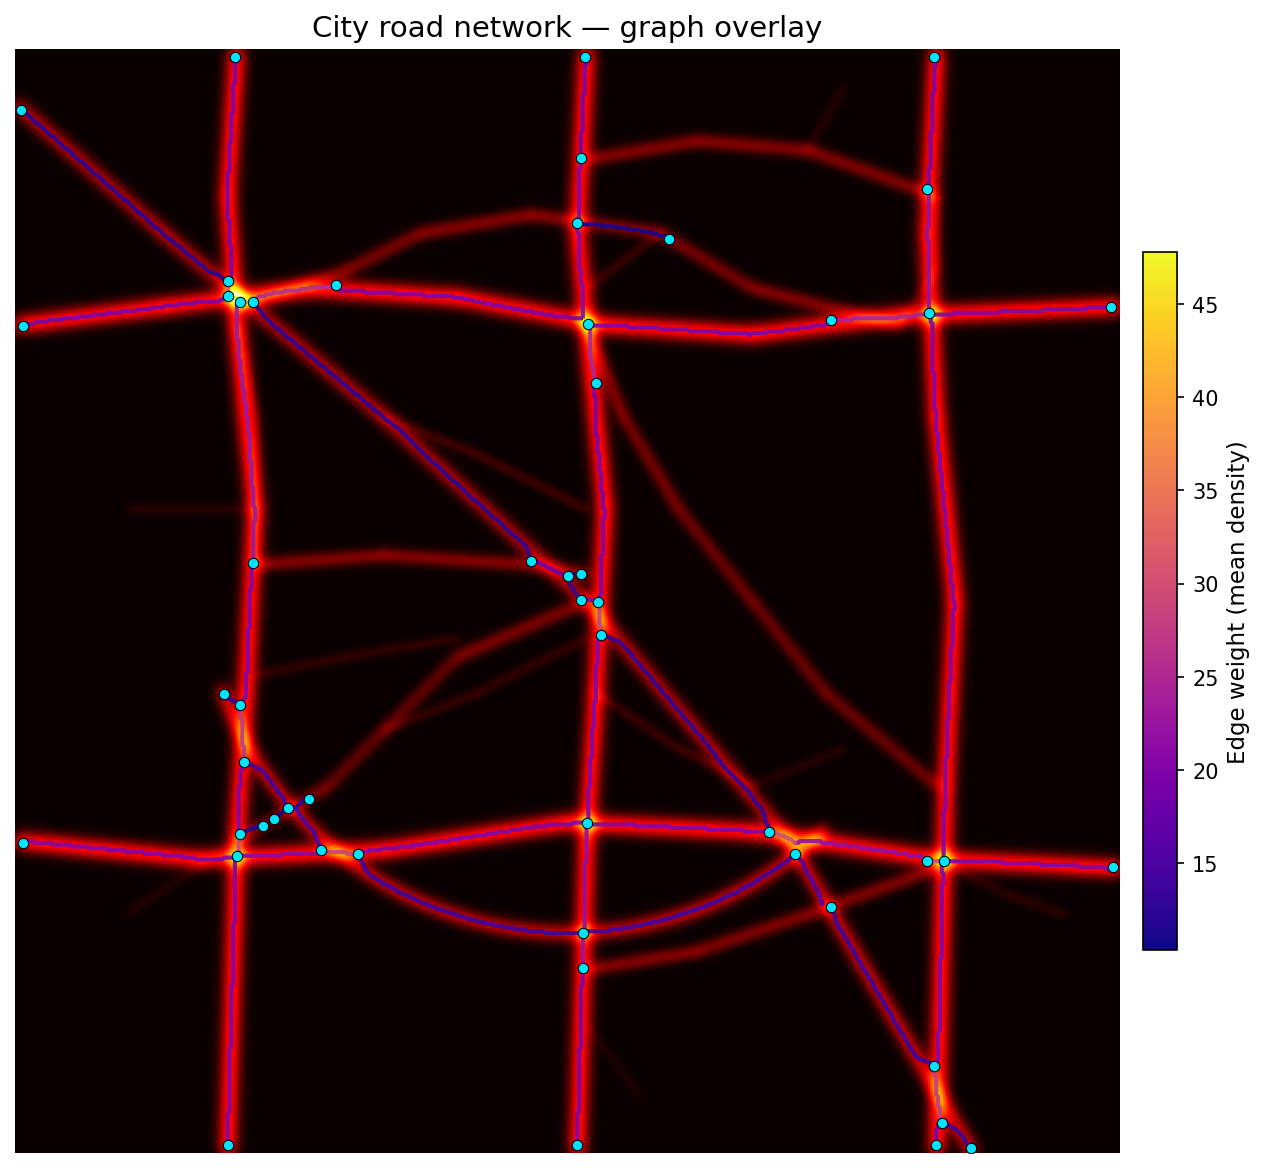
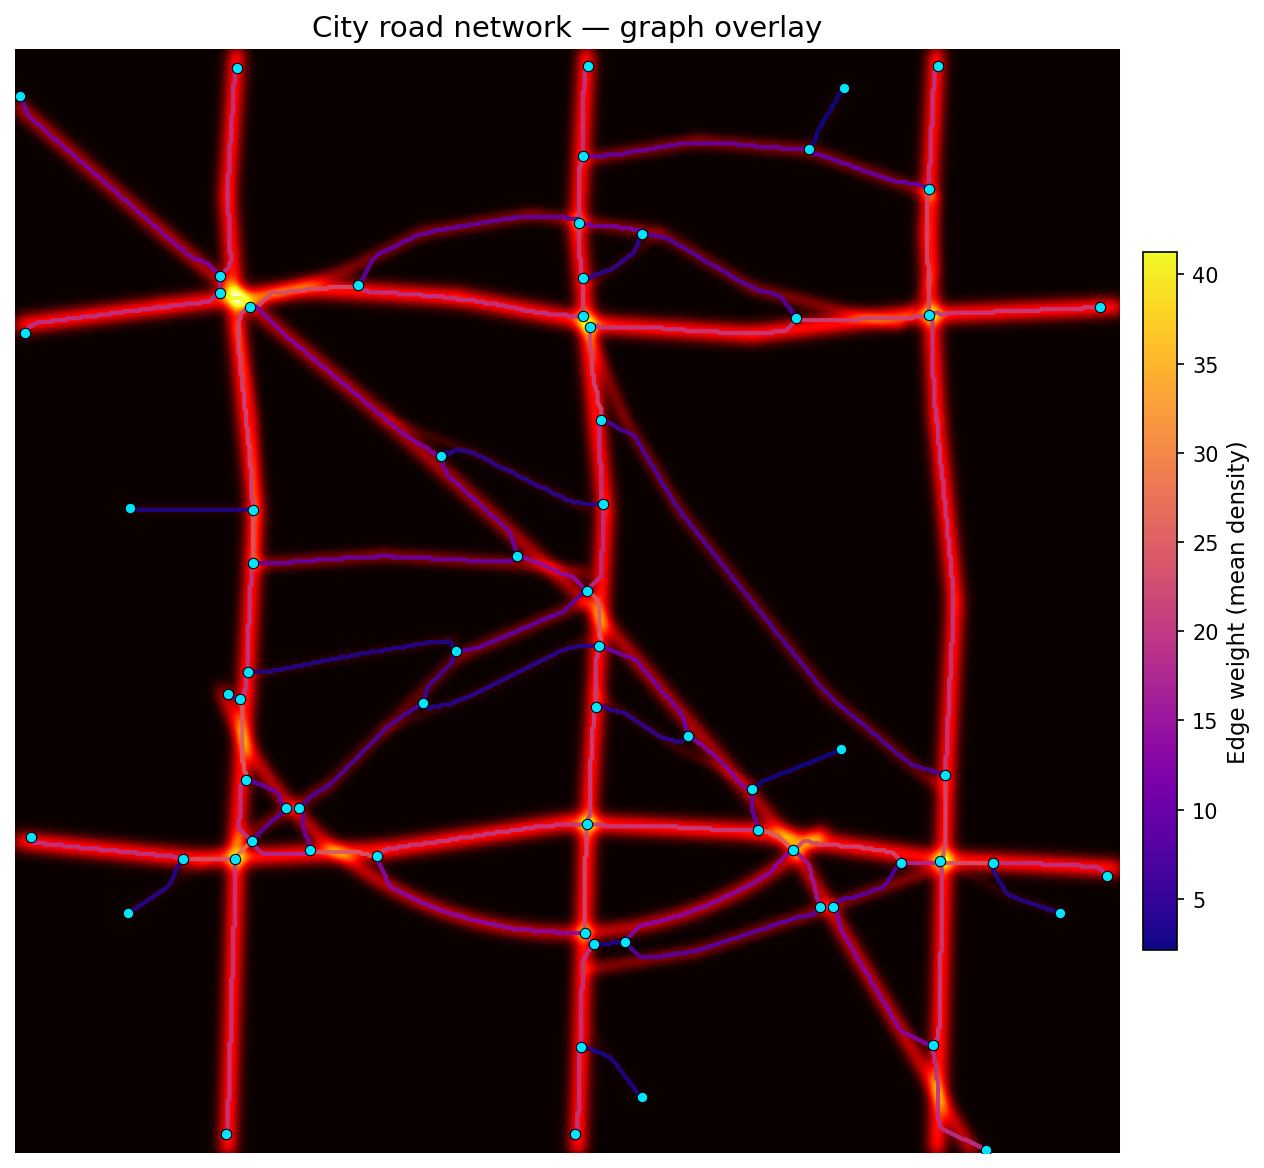
feat: Introduce `graph_builder.py` to convert skeletonized road maps into networkx graphs with node detection, edge tracing, and simplification, along with a city example.

diff --git a/road_vectorizer/graph_builder.py b/road_vectorizer/graph_builder.py
@@ -289,7 +289,6 @@ def build_graph(
     dilate_radius: int = 0,
     prune_length: int = 0,
     merge_distance: int = 5,
-    min_edge_weight: float = 0.0,
 ) -> nx.Graph:
     """Convert a 2D density histogram into a weighted undirected graph.
 
@@ -309,10 +308,6 @@ def build_graph(
     merge_distance : int
         Iteratively merge degree-2 nodes connected by edges shorter than
         this many pixels.  Set to 0 to disable.
-    min_edge_weight : float
-        Drop edges whose mean density (``weight``) is below this value.
-        Useful for filtering out faint skeleton artefacts that barely
-        stand out from background noise.  Set to 0 to keep all edges.
 
     Returns
     -------
@@ -379,16 +374,6 @@ def build_graph(
             # Clean up newly isolated nodes
             isolated = [n for n in G.nodes() if G.degree(n) == 0]
             G.remove_nodes_from(isolated)
-
-    # 7. Filter edges by minimum weight (mean density)
-    if min_edge_weight > 0:
-        to_remove = [
-            (u, v) for u, v, d in G.edges(data=True)
-            if d["weight"] < min_edge_weight
-        ]
-        G.remove_edges_from(to_remove)
-        isolated = [n for n in G.nodes() if G.degree(n) == 0]
-        G.remove_nodes_from(isolated)
 
     return G
 

diff --git a/examples/city_example.py b/examples/city_example.py
@@ -196,7 +196,7 @@ def main() -> None:
     density = make_city_density(size=600)
 
     print("Building graph …")
-    G = build_graph(density, prune_length=5, merge_distance=5, min_edge_weight=10)
+    G = build_graph(density, threshold=0.3, prune_length=5, merge_distance=5)
 
     print(f"  Nodes : {G.number_of_nodes()}")
     print(f"  Edges : {G.number_of_edges()}")
